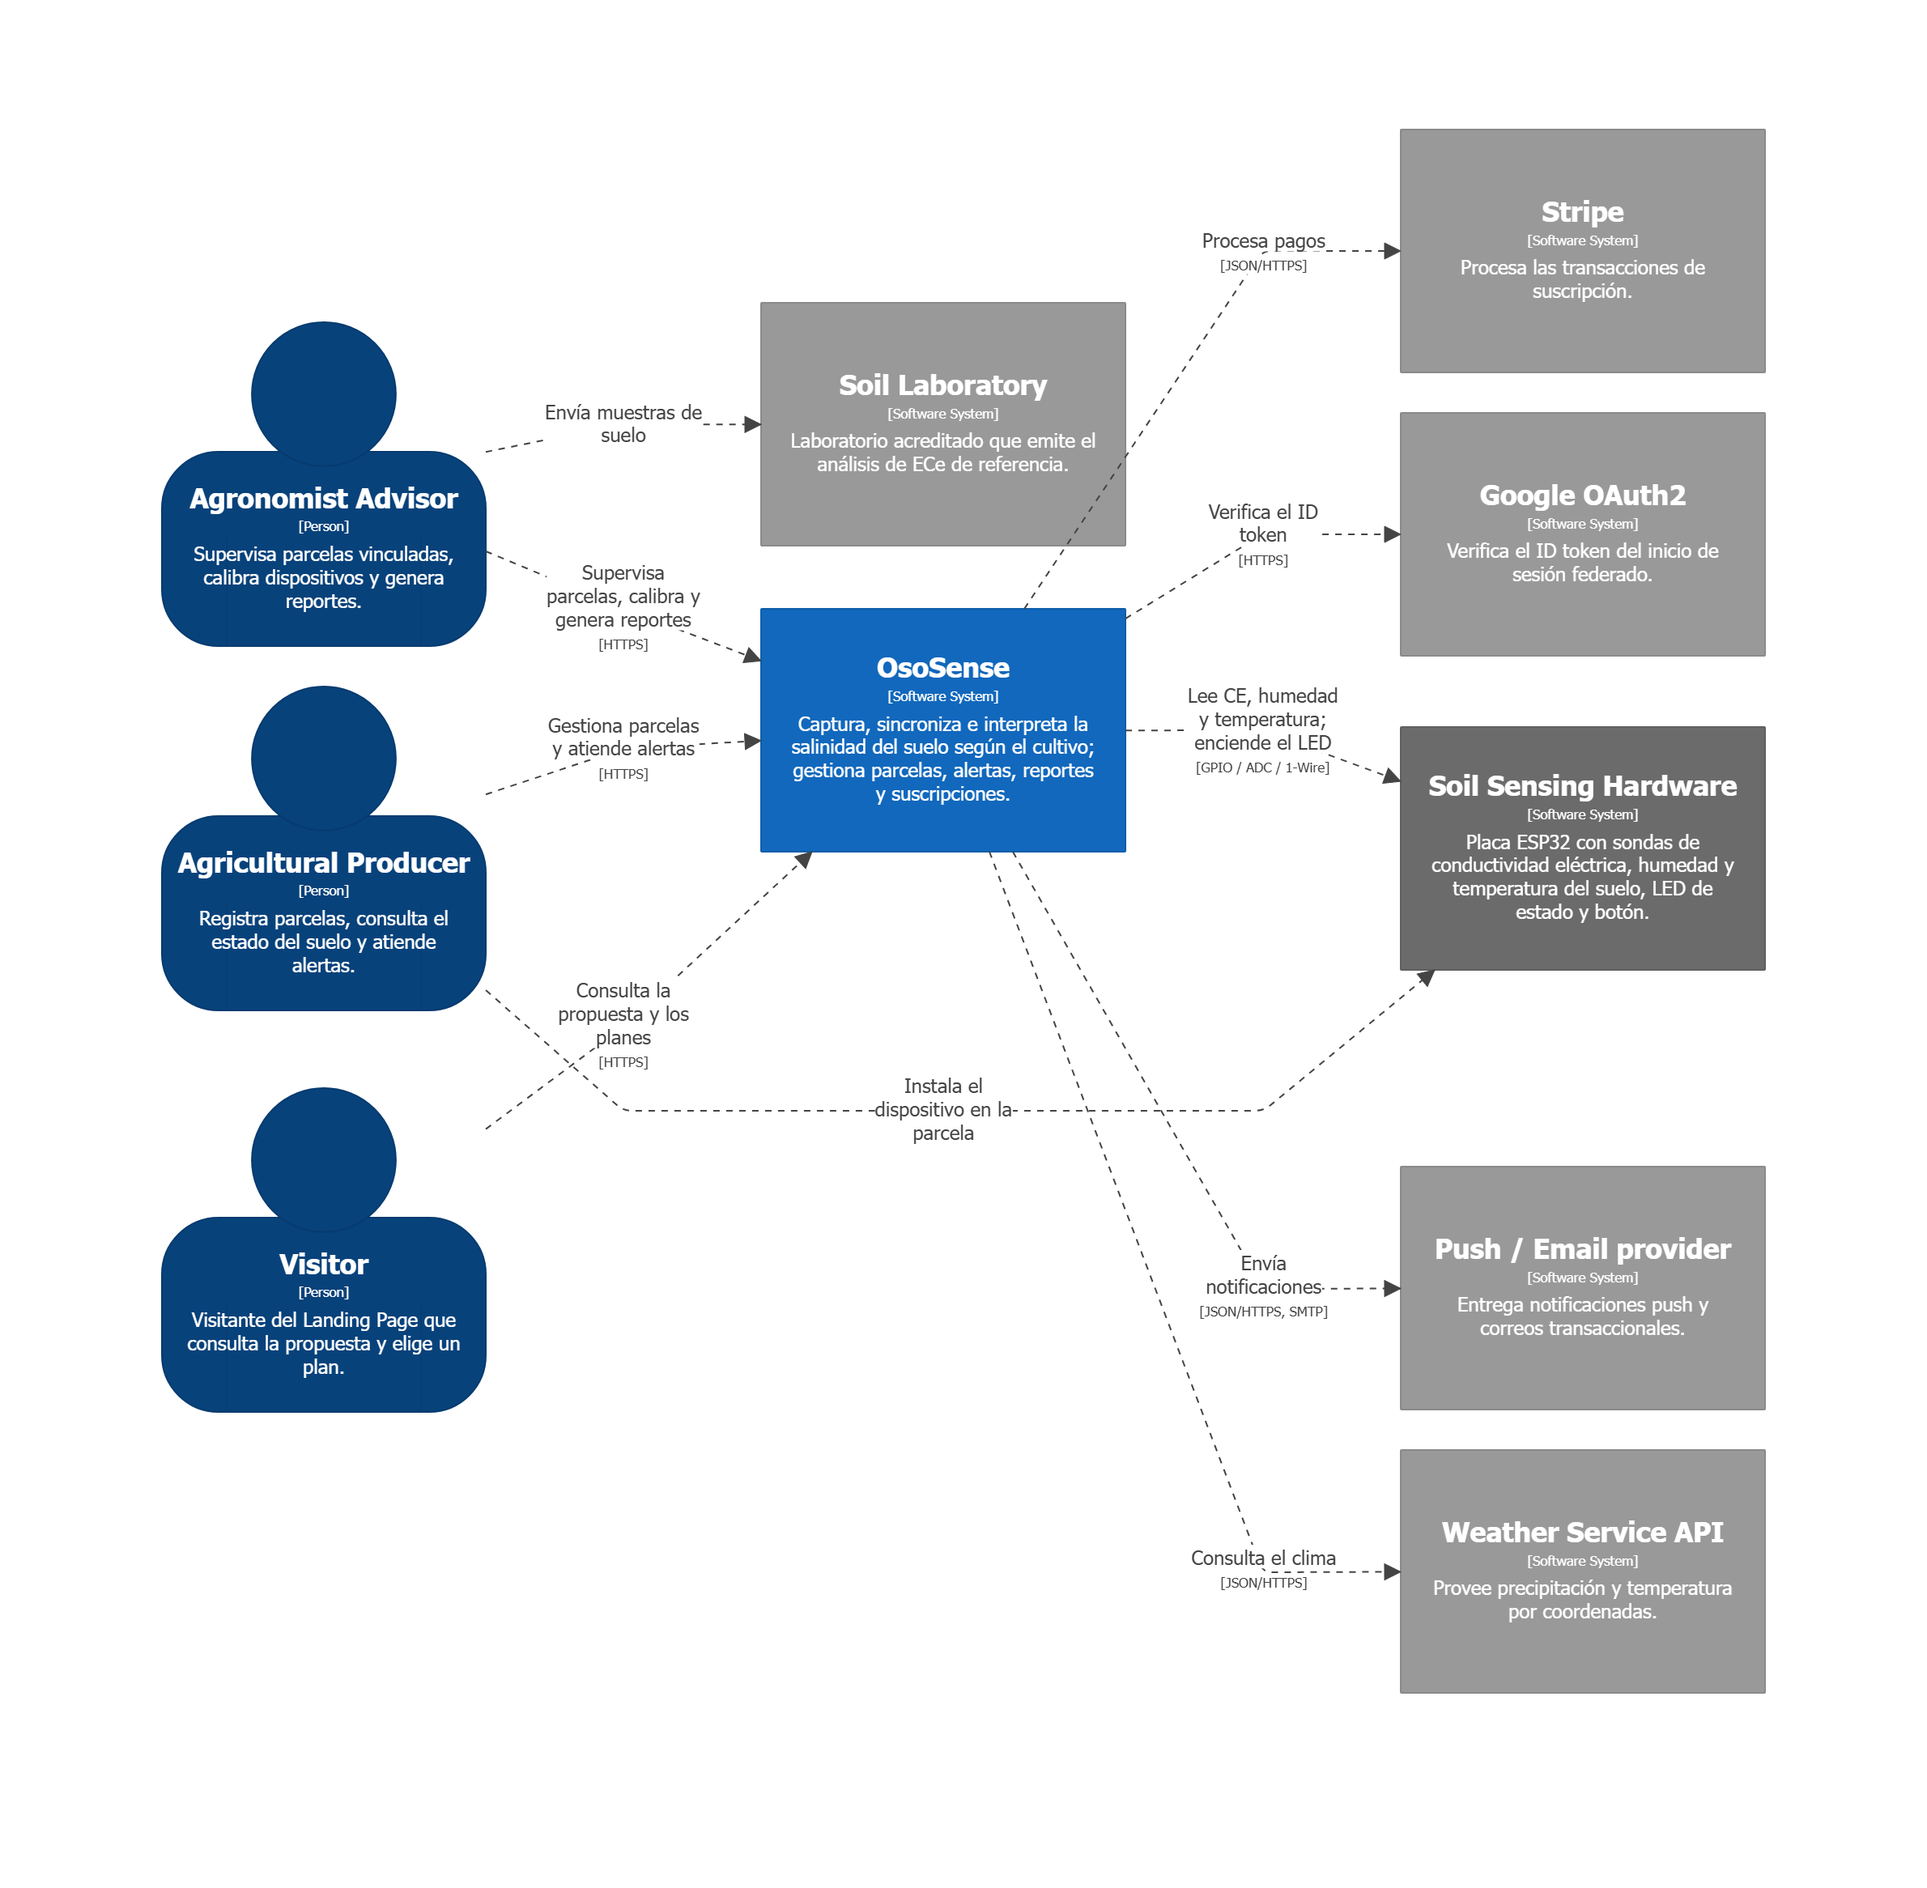
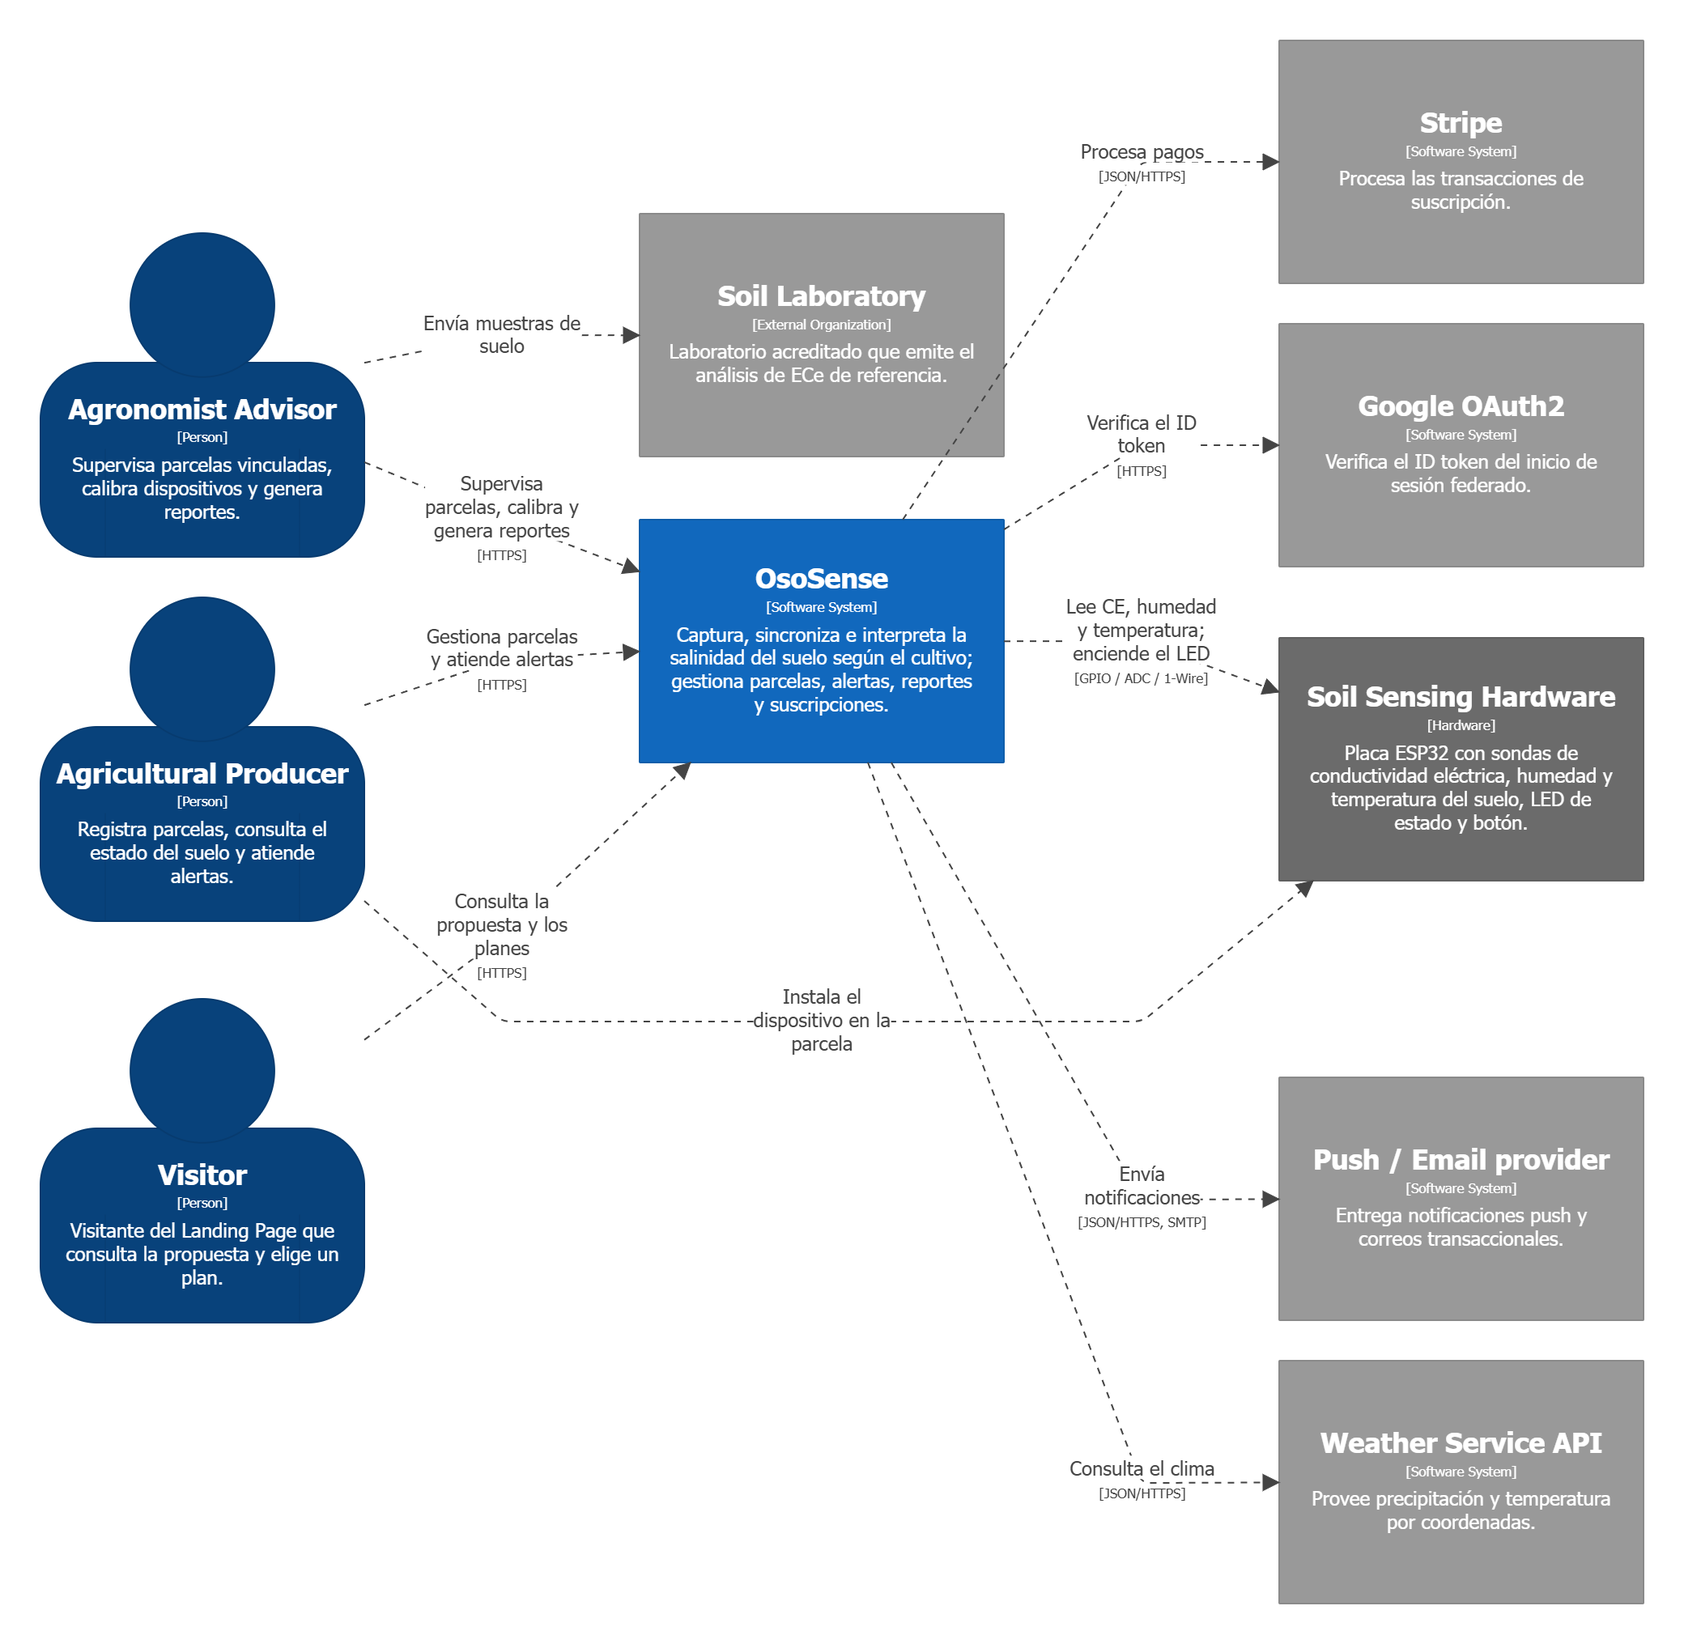
fix(chapter-4): correct c4 diagrams against the real system

diff --git a/chapters/chapter4.md b/chapters/chapter4.md
@@ -551,7 +551,7 @@ El System Landscape Diagram es la vista más amplia del C4 Model. Muestra, en un
 1. **Identificación de personas.** Se tomaron los actores del Big Picture EventStorming (2.4) y de los flujos de mensajes (4.1.1.2) que interactúan directamente con la solución: el visitante del Landing Page, el Agricultural Producer y el Agronomist Advisor.
 2. **Identificación del sistema propio.** Todos los productos de software exigidos por el enunciado —Landing Page, Web App, Mobile App, backend de servicios web (implementado como Modular Monolith), Edge Service y Embedded Application— se agruparon en un **único sistema de software, OsoSense**, porque los construye y opera el mismo equipo y solo tienen sentido juntos.
 3. **Identificación del hardware.** El **Soil Sensing Hardware** (placa ESP32 con las sondas de conductividad eléctrica, humedad y temperatura, el LED de estado y el botón) se representa como el único elemento físico fuera del sistema: el software embebido que corre sobre él sí forma parte de OsoSense.
-4. **Identificación de sistemas externos.** Se tomaron los sistemas de terceros ya definidos en el Context Mapping (4.1.2): Stripe, Google OAuth2, el proveedor de notificaciones push y correo y el Weather Service API. El laboratorio de suelos se incluyó como sistema externo con el que interactúa el asesor.
+4. **Identificación de sistemas externos.** Se tomaron los sistemas de terceros ya definidos en el Context Mapping (4.1.2): Stripe, Google OAuth2, el proveedor de notificaciones push y correo y el Weather Service API. El laboratorio de suelos se incluyó como organización externa con la que interactúa el asesor; no es un sistema de software, por eso se rotula *External Organization*.
 5. **Relaciones.** Cada relación se rotuló con la acción principal que realiza el emisor sobre el receptor.
 6. **Revisión.** Se verificó que cada persona y cada sistema externo del diagrama aparezca en al menos un escenario de Domain Storytelling.
 
@@ -573,7 +573,7 @@ El System Landscape Diagram es la vista más amplia del C4 Model. Muestra, en un
 | Google OAuth2 | Sistema externo | Permite el inicio de sesión federado. |
 | Push / Email provider | Sistema externo | Entrega las notificaciones de alertas. |
 | Weather Service API | Sistema externo | Provee datos de precipitación y temperatura por coordenadas. |
-| Soil Laboratory | Sistema externo | Laboratorio acreditado que entrega el análisis de ECe usado para calibrar el dispositivo. |
+| Soil Laboratory | Organización externa | Laboratorio acreditado que entrega el análisis de ECe usado para calibrar el dispositivo. |
 
 **Relaciones principales**
 
@@ -656,18 +656,18 @@ El Container Level abre el sistema OsoSense en sus unidades de despliegue indepe
 |---|---|---|
 | Landing Page | HTML5, CSS3, JavaScript | Sitio estático que presenta el modelo de negocio y los planes. |
 | Web Application | Angular, TypeScript, Angular Material | Interfaz responsive de gestión, tableros y reportes (asesor y productor). |
-| Mobile Application | Kotlin / Android | App nativa de consulta en campo y recepción de alertas (productor). |
-| Modular Monolith | Spring Boot, Java, Spring Data JPA | Backend de negocio: implementa los seis bounded contexts como módulos de un único despliegue y atiende a los clientes y al Edge Service. |
+| Mobile Application | Kotlin, Jetpack Compose, Android | App nativa de consulta en campo y recepción de alertas (productor). |
+| Modular Monolith | Spring Boot, Java 17, Spring Data JPA | Backend de negocio: implementa los seis bounded contexts como módulos de un único despliegue y atiende a los clientes y al Edge Service. |
 | Platform Database | PostgreSQL | Persiste cuentas, suscripciones, fincas, parcelas, lecturas y alertas. |
 | Edge Service | Flask, Python, Peewee ORM | Valida, compensa a 25 °C y sincroniza las lecturas; reenvía los lotes pendientes al recuperar la conexión. |
 | Edge Local Database | SQLite | Persiste las lecturas pendientes de sincronización. |
-| Embedded Application | C++ / Arduino Framework | Firmware que muestrea los sensores, controla el LED y el botón y envía las lecturas. |
+| Embedded Application | C++, Arduino Framework, PlatformIO | Firmware que muestrea los sensores, controla el LED y el botón y envía las lecturas. |
 
 **Relaciones principales**
 
 - El **Visitor** visita el Landing Page, que redirige a la Web App mediante un call-to-action (HTTPS).
 - **Web App** y **Mobile App** consumen el mismo **Modular Monolith** (JSON/HTTPS); el Modular Monolith es el único que lee y escribe en la Platform Database (JDBC).
-- El flujo de campo es **Modular Monolith ↔ Edge Service ↔ Embedded Application ↔ hardware**: la **Embedded Application** lee los sensores del **Soil Sensing Hardware** (GPIO/ADC/1-Wire) y envía las lecturas al **Edge Service** (JSON/HTTP sobre WiFi); el Edge las guarda en su base local (SQL), sincroniza los lotes al Modular Monolith (JSON/HTTPS) y recibe de él el factor de calibración y los umbrales.
+- El flujo de campo es **hardware → Embedded Application → Edge Service → Modular Monolith**: la **Embedded Application** lee los sensores del **Soil Sensing Hardware** (GPIO/ADC/1-Wire) y envía las lecturas al **Edge Service** (JSON/HTTP sobre WiFi); el Edge las compensa con el factor de calibración de cada dispositivo, las guarda en su base local (SQL) y sincroniza los lotes al Modular Monolith (JSON/HTTPS, autenticado con la cabecera `X-Edge-Api-Key`). El Modular Monolith no llama al Edge: la respuesta de cada lote informa cuántas lecturas aceptó y cuántas descartó.
 - El **Modular Monolith** concentra las integraciones externas: Stripe, Google OAuth2, Weather Service API y notificaciones push (JSON/HTTPS) y correo (SMTP).
 
 **Decisiones reflejadas en el diagrama**
@@ -679,13 +679,13 @@ El Container Level abre el sistema OsoSense en sus unidades de despliegue indepe
 
 #### 4.1.3.4. Software Architecture Deployment Diagrams
 
-El Deployment Diagram mapea los contenedores del nivel anterior a la infraestructura donde se ejecutan, evidenciando la naturaleza distribuida de la solución en tres ámbitos físicos: la parcela, los dispositivos del usuario y el proveedor cloud.
+El Deployment Diagram mapea los contenedores del nivel anterior a la infraestructura donde se ejecutan, evidenciando la naturaleza distribuida de la solución en tres ámbitos físicos: la parcela, los dispositivos del usuario y la nube (Railway).
 
 **Proceso de elaboración**
 
 1. **Nodos de campo.** La Embedded Application se despliega en el ESP32 del Soil Sensing Hardware y el Edge Service, con su base SQLite, en un gateway local.
 2. **Dispositivos del usuario.** El Landing Page y la Web App se ejecutan en el navegador; la Mobile App, en el dispositivo Android.
-3. **Nodos cloud.** Se separaron el servidor de aplicaciones (Modular Monolith sobre la JVM) y el servidor de base de datos.
+3. **Nodos cloud.** En Railway se separaron el servicio de aplicación (Modular Monolith sobre Java 17) y la base de datos PostgreSQL gestionada.
 4. **Enlaces.** Cada canal de despliegue se rotuló con su protocolo.
 
 <div align="center">
@@ -697,18 +697,18 @@ El Deployment Diagram mapea los contenedores del nivel anterior a la infraestruc
 
 | Deployment Node | Contenedores desplegados | Notas |
 |---|---|---|
-| Parcela agrícola → ESP32 (Soil Sensing Hardware) | Embedded Application (C++ / Arduino Framework) | Opera con conectividad intermitente. |
+| Parcela agrícola → ESP32 (Soil Sensing Hardware) | Embedded Application (C++, Arduino Framework) | Opera con conectividad intermitente. |
 | Parcela agrícola → Gateway local (Raspberry Pi / PC) | Edge Service (Flask/Python) + Edge Local Database (SQLite) | Compensa y bufferiza hasta sincronizar. |
 | Dispositivos del usuario → Navegador web | Landing Page (HTML/CSS/JS) + Web Application (Angular SPA) | Descargados desde el hosting cloud. |
-| Dispositivos del usuario → Dispositivo Android | Mobile Application (Kotlin APK) | Cliente de campo del productor. |
-| Proveedor cloud → Application Server (JVM) | Modular Monolith (Spring Boot JAR) | Backend de negocio con los seis bounded contexts como módulos. |
-| Proveedor cloud → Database Server | Platform Database (PostgreSQL) | Persistencia canónica. |
+| Dispositivos del usuario → Dispositivo Android | Mobile Application (Kotlin, Jetpack Compose) | Cliente de campo del productor. |
+| Railway → Application Service (Java 17 / JVM) | Modular Monolith (Spring Boot JAR) | Backend de negocio con los seis bounded contexts como módulos. |
+| Railway → Railway PostgreSQL | Platform Database (PostgreSQL) | Persistencia canónica. |
 
 **Decisiones reflejadas en el diagrama**
 
-- Los contenedores de campo (Embedded Application, Edge Service y su base local) se despliegan **fuera de la nube**, junto a la parcela, para tolerar cortes de conectividad; el resto del sistema se despliega **en la nube**. Todos pertenecen al mismo sistema OsoSense.
+- Los contenedores de campo (Embedded Application, Edge Service y su base local) se despliegan **fuera de la nube**, junto a la parcela, para tolerar cortes de conectividad; el backend y su base de datos se despliegan **en la nube** (Railway). Todos pertenecen al mismo sistema OsoSense.
 - El Landing Page y la Web App se sirven como contenido estático/compilado y se ejecutan en el navegador del usuario, separados del servidor de aplicaciones que ejecuta el API sobre la JVM.
-- La base de datos PostgreSQL se despliega en un servidor dedicado, accesible únicamente desde el servidor de aplicaciones.
+- La base de datos PostgreSQL es el servicio gestionado de Railway y solo el Modular Monolith se conecta a ella.
 
 ## 4.2. Tactical-Level Domain-Driven Design
 
@@ -986,7 +986,7 @@ A continuación, el diagrama de clases unificado de la capa de dominio del conte
 ##### 4.2.1.6.2. Bounded Context Database Design Diagram
 
 <div align="center">
-<img src="../assets/architecture-db/IAM.png" alt="Database Diagram Identity and Access Management" width="800">
+<img src="../assets/architecture-db/IAM.png" alt="Database Diagram Identity and Access Management" width="650">
 <p><em>Database Diagram del bounded context Identity and Access Management.</em></p>
 </div>
 
